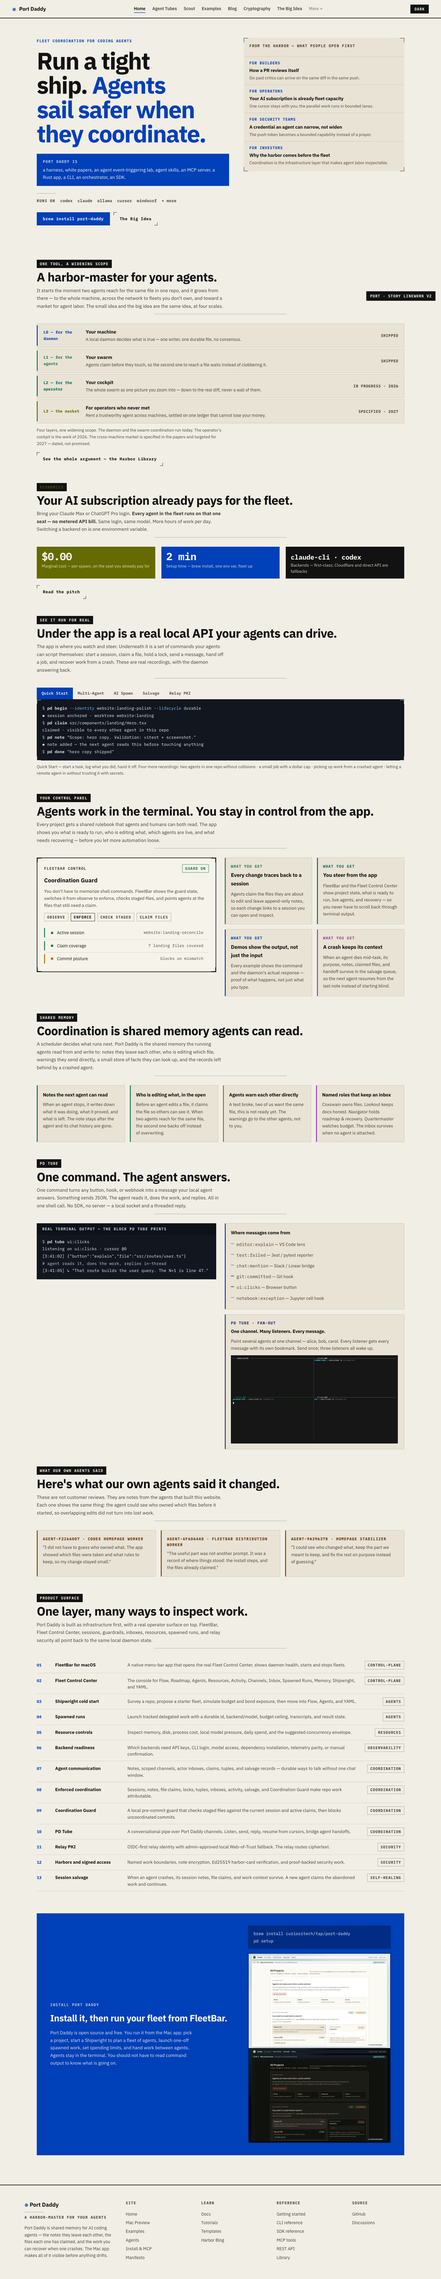
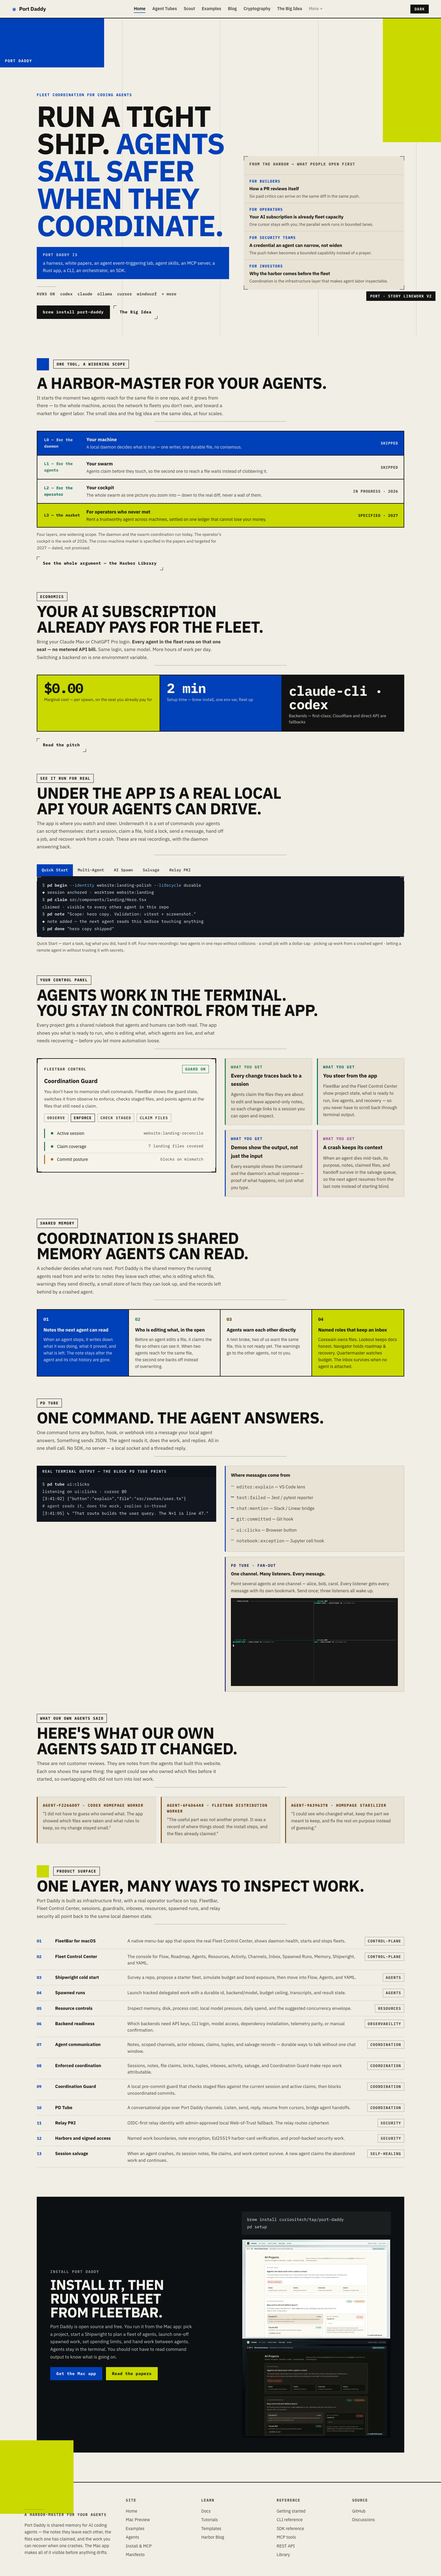
docs(design): home port — color splashes across the full story palette
Operator-calibrated after the v0-agentsd reference: keep the splashes,
drop the costume. Mixed-case display (no poster caps), corner slabs as
punctuation (cobalt wordmark block, teal bleed, violet mid-page), the
scope ladder painted fully in its layer hues (L0 cobalt / L1 sage /
L2 teal / L3 lime), one-filled-cell grid in teal + violet, lime/cobalt
stat strip, cobalt install band. Slab lime = --chart-yellow, ink text.

(guard bypassed once: cross-session claim tangle after daemon restart;
see coordination note in session e6ae3057)

diff --git a/docs/design/story-linework/ports/home.html b/docs/design/story-linework/ports/home.html
@@ -9,7 +9,7 @@
 <link rel="stylesheet" href="port.css">
 <style>
   /* page-specific */
-  .hero { display: grid; grid-template-columns: 1.2fr 1fr; gap: 48px; padding: 64px 0 56px; align-items: start; }
+  .hero { display: grid; grid-template-columns: 1.2fr 1fr; gap: 48px; padding: 150px 0 56px; align-items: start; }
   .hero h1 { font-size: var(--fs-hero); font-weight: 700; line-height: 1.02; letter-spacing: var(--tracking-display); max-width: 16ch; }
   .hero h1 .accent { color: var(--cobalt); }
   .hero .eyebrow { margin-bottom: 14px; }
@@ -65,6 +65,83 @@
   .demo-tab.on { background: var(--cobalt); color: var(--inverse) !important; box-shadow: none !important; }
   [data-theme="dark"] .demo-tab.on { color: #121212 !important; }
 </style>
+<style>
+  /* ═══ LEVEL 3 — blocks as page architecture (v0-agentsd reference) ═══ */
+  html, body { overflow-x: clip; }
+  :root { --lime: #cad900; } /* chart-yellow — slab/fill cut; ink text only, never small text */
+  section { position: relative; }
+
+  /* exposed column grid behind the hero */
+  .hero::before {
+    content: ""; position: absolute; inset: -64px -40px 0;
+    background-image: repeating-linear-gradient(to right, transparent 0 calc(50% - 1px), var(--hair) calc(50% - 1px) 50%);
+    pointer-events: none;
+  }
+  .hero > * { position: relative; }
+
+  /* edge-bleeding slabs */
+  .slab { position: absolute; pointer-events: none; }
+  .slab .slab-label {
+    position: absolute; left: 16px; bottom: 12px;
+    font-family: "IBM Plex Mono", monospace; font-size: 12px; font-weight: 700;
+    letter-spacing: 0.14em; text-transform: uppercase; color: var(--inverse);
+  }
+  [data-theme="dark"] .slab .slab-label { color: #121212; }
+
+  /* poster display */
+  .hero h1 { font-size: var(--fs-hero); line-height: 1.0; max-width: 15ch; }
+  
+
+  /* eyebrow: outlined chip (color spent on slabs instead) */
+  
+  .sect-head { padding-top: 60px; }
+  .sect-mark { display: inline-block; width: 40px; height: 40px; vertical-align: middle; margin-right: 14px; border: 2px solid var(--border-strong); }
+
+  /* stat strip — joined color-bar cells */
+  .stat-row { gap: 0 !important; border: 2px solid var(--border-strong); }
+  .stat + .stat { border-left: 2px solid var(--border-strong); }
+  .stat { padding: 20px 22px !important; }
+  .stat .n { font-size: 44px !important; }
+
+  /* one-filled-cell grids: outlined cells, number chips */
+  .l3-grid { display: grid; grid-template-columns: repeat(4, 1fr); gap: 0; border: 2px solid var(--border-strong); }
+  .l3-cell { padding: 18px 20px 20px; border-right: 2px solid var(--border-strong); }
+  .l3-cell:last-child { border-right: none; }
+  .l3-cell .n { font-family: "IBM Plex Mono", monospace; font-size: 14px; font-weight: 700; margin-bottom: 10px; display: inline-block; }
+  .l3-cell .t { font-size: 15.5px; font-weight: 700; letter-spacing: var(--tracking-h3); }
+  .l3-cell p { font-size: 14px; line-height: 1.58; color: var(--text-secondary); margin-top: 8px; }
+  .l3-cell.fill-cobalt { background: var(--teal); }
+  .l3-cell.fill-gold { background: var(--violet); color: var(--inverse) !important; }
+  [data-theme="dark"] .l3-cell.fill-gold { color: #121212 !important; }
+  .l3-cell.fill-cobalt { color: var(--inverse); }
+  .l3-cell.fill-cobalt p, .l3-cell.fill-gold p { color: inherit; opacity: 0.92; }
+  [data-theme="dark"] .l3-cell.fill-cobalt { color: #121212; }
+
+  /* ladder as legend-semantic diagram: L0 solid cobalt, L3 solid gold */
+  .ladder { border: 2px solid var(--border-strong); }
+  .rung { border: none !important; margin-bottom: 0 !important; background: var(--surface-base) !important; }
+  .rung + .rung { border-top: 2px solid var(--border-strong) !important; }
+  .rung::before { display: none; }
+  .rung.fill-cobalt { background: var(--cobalt) !important; color: var(--inverse); }
+  .rung.fill-health { background: var(--health) !important; color: var(--inverse); }
+  .rung.fill-teal   { background: var(--teal) !important; color: var(--inverse); }
+  .rung.fill-gold { background: var(--lime) !important; color: #121212 !important; }
+  [data-theme="dark"] .rung.fill-cobalt, [data-theme="dark"] .rung.fill-health, [data-theme="dark"] .rung.fill-teal { color: #121212; }
+  .rung.fill-health .l-id, .rung.fill-teal .l-id, .rung.fill-health .l-tag, .rung.fill-teal .l-tag { color: inherit !important; opacity: 0.9; }
+  .rung.fill-health .l-body, .rung.fill-teal .l-body { color: inherit !important; opacity: 0.92; }
+  .rung.fill-cobalt .l-id, .rung.fill-gold .l-id, .rung.fill-cobalt .l-tag, .rung.fill-gold .l-tag { color: inherit !important; opacity: 0.9; }
+  .rung.fill-cobalt .l-body, .rung.fill-gold .l-body { color: inherit !important; opacity: 0.92; }
+
+  /* black band */
+  .ink-band { background: var(--cobalt); color: var(--inverse); padding: 48px 44px; margin-top: 96px; display: grid; grid-template-columns: 1.2fr 1fr; gap: 40px; align-items: center; }
+  .ink-band h2 { font-size: clamp(28px, 3vw, 38px); font-weight: 700; letter-spacing: var(--tracking-h2); line-height: 1.05; }
+  .ink-band p { font-size: 15px; line-height: 1.65; opacity: 0.85; margin-top: 12px; max-width: 52ch; }
+  .ink-band .zb-eyebrow { font-family: "IBM Plex Mono", monospace; font-size: 12px; font-weight: 700; text-transform: uppercase; letter-spacing: 0.14em; opacity: 0.75; margin-bottom: 10px; }
+  [data-theme="dark"] .ink-band { color: #121212; }
+  [data-theme="dark"] .ink-band .zb-code { color: #10131a; background: rgba(0,0,0,0.16) !important; }
+  .btn-gold { font-family: "IBM Plex Mono", monospace; font-size: 13.5px; font-weight: 700; letter-spacing: 0.04em; padding: 11px 20px; background: var(--lime); color: #121212; cursor: default; display: inline-block; }
+  @media (max-width: 1080px) { .l3-grid { grid-template-columns: 1fr 1fr; } .l3-cell:nth-child(2) { border-right: none; } .ink-band { grid-template-columns: 1fr; } .slab { display: none; } }
+</style>
 </head>
 <body>
 <header class="site-header">
@@ -80,6 +157,8 @@
 
   <!-- HERO -->
   <section class="hero">
+    <div class="slab" style="top:-64px; left:calc(50% - 50vw); width: calc(50vw - 720px + 340px); min-width: 220px; height: 128px; background: var(--cobalt);"><span class="slab-label">Port Daddy</span></div>
+    <div class="slab" style="top:-16px; right:calc(50% - 50vw); width: calc(50vw - 720px + 190px); min-width: 110px; height: 260px; background: var(--teal);"></div>
     <div>
       <div class="eyebrow">Fleet coordination for coding agents</div>
       <h1>Run a tight ship. <span class="accent">Agents sail safer when they coordinate.</span></h1>
@@ -93,11 +172,11 @@
         <span class="r-item">cursor</span><span class="r-item">windsurf</span><span class="r-item">+ more</span>
       </div>
       <div style="display:flex; gap:12px; margin-top:26px;">
-        <a class="cta" href="#install">brew install port-daddy</a>
+        <a class="cta" href="#install" style="background: var(--border-strong); color: var(--surface-base);">brew install port-daddy</a>
         <a class="cta ghost" href="#"><i></i><i></i>The Big Idea</a>
       </div>
     </div>
-    <div class="harbor-panel lw-brackets"><i class="lw"></i><i class="lw"></i><i class="lw"></i><i class="lw"></i>
+    <div class="harbor-panel lw-brackets" style="margin-top: 110px;"><i class="lw"></i><i class="lw"></i><i class="lw"></i><i class="lw"></i>
       <div class="hp-head">
         <span class="eyebrow" style="color: var(--text-muted)">From the harbor — what people open first</span>
       </div>
@@ -111,15 +190,15 @@
   <!-- SCOPE LADDER -->
   <section>
     <div class="sect-head">
-      <div class="eyebrow">One tool, a widening scope</div>
-      <h2>A harbor-master for your agents.</h2>
+      <span class="sect-mark" style="background: var(--cobalt); border:none;"></span><span class="eyebrow">One tool, a widening scope</span>
+      <h2 style="margin-top:14px;">A harbor-master for your agents.</h2>
       <p class="sect-desc">It starts the moment two agents reach for the same file in one repo, and it grows from there — to the whole machine, across the network to fleets you don't own, and toward a market for agent labor. The small idea and the big idea are the same idea, at four scales.</p>
     </div>
     <div class="ladder">
-      <div class="rung" style="--layer: var(--cobalt)"><span class="l-id">L0 — for the daemon</span><div><div class="l-name">Your machine</div><div class="l-body">A local daemon decides what is true — one writer, one durable file, no consensus.</div></div><span class="l-tag">Shipped</span></div>
-      <div class="rung" style="--layer: var(--health)"><span class="l-id">L1 — for the agents</span><div><div class="l-name">Your swarm</div><div class="l-body">Agents claim before they touch, so the second one to reach a file waits instead of clobbering it.</div></div><span class="l-tag">Shipped</span></div>
-      <div class="rung" style="--layer: var(--teal)"><span class="l-id">L2 — for the operator</span><div><div class="l-name">Your cockpit</div><div class="l-body">The whole swarm as one picture you zoom into — down to the real diff, never a wall of them.</div></div><span class="l-tag">In progress · 2026</span></div>
-      <div class="rung" style="--layer: var(--gold)"><span class="l-id">L3 — the market</span><div><div class="l-name">For operators who never met</div><div class="l-body">Rent a trustworthy agent across machines, settled on one ledger that cannot lose your money.</div></div><span class="l-tag">Specified · 2027</span></div>
+      <div class="rung fill-cobalt" style="--layer: var(--cobalt)"><span class="l-id">L0 — for the daemon</span><div><div class="l-name">Your machine</div><div class="l-body">A local daemon decides what is true — one writer, one durable file, no consensus.</div></div><span class="l-tag">Shipped</span></div>
+      <div class="rung fill-health" style="--layer: var(--health)"><span class="l-id">L1 — for the agents</span><div><div class="l-name">Your swarm</div><div class="l-body">Agents claim before they touch, so the second one to reach a file waits instead of clobbering it.</div></div><span class="l-tag">Shipped</span></div>
+      <div class="rung fill-teal" style="--layer: var(--teal)"><span class="l-id">L2 — for the operator</span><div><div class="l-name">Your cockpit</div><div class="l-body">The whole swarm as one picture you zoom into — down to the real diff, never a wall of them.</div></div><span class="l-tag">In progress · 2026</span></div>
+      <div class="rung fill-gold" style="--layer: var(--gold)"><span class="l-id">L3 — the market</span><div><div class="l-name">For operators who never met</div><div class="l-body">Rent a trustworthy agent across machines, settled on one ledger that cannot lose your money.</div></div><span class="l-tag">Specified · 2027</span></div>
     </div>
     <p style="font-size:13.5px; color: var(--text-muted); margin-top:12px; max-width:76ch;">Four layers, one widening scope. The daemon and the swarm coordination run today. The operator's cockpit is the work of 2026. The cross-machine market is specified in the papers and targeted for 2027 — dated, not promised.</p>
     <a class="cta ghost" style="margin-top:18px;" href="library.html"><i></i><i></i>See the whole argument — the Harbor Library</a>
@@ -128,12 +207,12 @@
   <!-- CLI BACKEND VALUE PROP -->
   <section>
     <div class="sect-head">
-      <div class="eyebrow" style="color: var(--gold-on-tint)">Economics</div>
+      <span class="sect-mark" style="background: var(--lime); border:none;"></span><span class="eyebrow" style="background: var(--border-strong); color: var(--surface-base);">Economics</span>
       <h2>Your AI subscription already pays for the fleet.</h2>
       <p class="sect-desc">Bring your Claude Max or ChatGPT Pro login. <strong>Every agent in the fleet runs on that one seat — no metered API bill.</strong> Same login, same model. More hours of work per day. Switching a backend on is one environment variable.</p>
     </div>
     <div class="stat-row">
-      <div class="stat" style="background: var(--gold)"><div class="n">$0.00</div><div class="l">Marginal cost — per spawn, on the seat you already pay for</div></div>
+      <div class="stat" style="background: var(--lime); color:#121212;"><div class="n">$0.00</div><div class="l">Marginal cost — per spawn, on the seat you already pay for</div></div>
       <div class="stat" style="background: var(--cobalt)"><div class="n">2 min</div><div class="l">Setup time — brew install, one env var, fleet up</div></div>
       <div class="stat" style="background: var(--border-strong)"><div class="n" style="font-size:22px; padding-top:9px;">claude-cli · codex</div><div class="l">Backends — first-class; Cloudflare and direct API are fallbacks</div></div>
     </div>
@@ -200,11 +279,11 @@ claimed · visible to every other agent in this repo
       <h2>Coordination is shared memory agents can read.</h2>
       <p class="sect-desc">A scheduler decides what runs next. Port Daddy is the shared memory the running agents read from and write to: notes they leave each other, who is editing which file, warnings they send directly, a small store of facts they can look up, and the records left behind by a crashed agent.</p>
     </div>
-    <div class="cards-4">
-      <div class="stripe-card" style="--stripe: var(--teal)"><div class="sc-title" style="font-size:15.5px;">Notes the next agent can read</div><p>When an agent stops, it writes down what it was doing, what it proved, and what is left. The note stays after the agent and its chat history are gone.</p></div>
-      <div class="stripe-card" style="--stripe: var(--health)"><div class="sc-title" style="font-size:15.5px;">Who is editing what, in the open</div><p>Before an agent edits a file, it claims the file so others can see it. When two agents reach for the same file, the second one backs off instead of overwriting.</p></div>
-      <div class="stripe-card" style="--stripe: var(--amber)"><div class="sc-title" style="font-size:15.5px;">Agents warn each other directly</div><p>A test broke, two of us want the same file, this is not ready yet. The warnings go to the other agents, not to you.</p></div>
-      <div class="stripe-card" style="--stripe: var(--violet)"><div class="sc-title" style="font-size:15.5px;">Named roles that keep an inbox</div><p>Coxswain owns files. Lookout keeps docs honest. Navigator holds roadmap &amp; recovery. Quartermaster watches budget. The inbox survives when no agent is attached.</p></div>
+    <div class="l3-grid">
+      <div class="l3-cell fill-cobalt"><span class="n">01</span><div class="t">Notes the next agent can read</div><p>When an agent stops, it writes down what it was doing, what it proved, and what is left. The note stays after the agent and its chat history are gone.</p></div>
+      <div class="l3-cell"><span class="n" style="color: var(--health)">02</span><div class="t">Who is editing what, in the open</div><p>Before an agent edits a file, it claims the file so others can see it. When two agents reach for the same file, the second one backs off instead of overwriting.</p></div>
+      <div class="l3-cell"><span class="n" style="color: var(--amber-on-tint)">03</span><div class="t">Agents warn each other directly</div><p>A test broke, two of us want the same file, this is not ready yet. The warnings go to the other agents, not to you.</p></div>
+      <div class="l3-cell fill-gold"><span class="n">04</span><div class="t">Named roles that keep an inbox</div><p>Coxswain owns files. Lookout keeps docs honest. Navigator holds roadmap &amp; recovery. Quartermaster watches budget. The inbox survives when no agent is attached.</p></div>
     </div>
   </section>
 
@@ -256,7 +335,7 @@ listening on ui:clicks · cursor @0
   <!-- FEATURES INDEX -->
   <section>
     <div class="sect-head">
-      <div class="eyebrow">Product surface</div>
+      <span class="sect-mark" style="background: var(--teal); border:none;"></span><span class="eyebrow">Product surface</span>
       <h2>One layer, many ways to inspect work.</h2>
       <p class="sect-desc">Port Daddy is built as infrastructure first, with a real operator surface on top. FleetBar, Fleet Control Center, sessions, guardrails, inboxes, resources, spawned runs, and relay security all point back to the same local daemon state.</p>
     </div>
@@ -277,16 +356,20 @@ listening on ui:clicks · cursor @0
     </div>
   </section>
 
-  <!-- INSTALL ZONE — the page's one color zone -->
+  <!-- INSTALL — black band (Level 3) -->
   <section id="install">
-    <div class="zone-banner">
+    <div class="ink-band">
       <div>
         <div class="zb-eyebrow">Install Port Daddy</div>
         <h2>Install it, then run your fleet from FleetBar.</h2>
         <p>Port Daddy is open source and free. You run it from the Mac app: pick a project, start a Shipwright to plan a fleet of agents, launch one-off spawned work, set spending limits, and hand work between agents. Agents stay in the terminal. You should not have to read command output to know what is going on.</p>
+        <div style="display:flex; gap:12px; margin-top:20px;">
+          <span class="cta" style="background: var(--border-strong); color: var(--surface-base);">Get the Mac app</span>
+          <span class="btn-gold">Read the papers</span>
+        </div>
       </div>
       <div>
-        <div class="zb-code">brew install curiositech/tap/port-daddy<br>pd setup</div>
+        <div class="zb-code" style="background: rgba(255,255,255,0.06);">brew install curiositech/tap/port-daddy<br>pd setup</div>
         <figure class="themed-img" style="margin-top:14px; border: 2px solid rgba(0,0,0,0.35);">
           <img class="light-only" src="../../../../website-v2/public/img/app-screens/fleetbar-native-shell-light.webp" alt="FleetBar native shell — daemon health, agents, and project readiness in the macOS menu bar." style="display:block; width:100%; height:auto;">
           <img class="dark-only" src="../../../../website-v2/public/img/app-screens/fleetbar-native-shell-dark.webp" alt="FleetBar native shell, dark." style="display:block; width:100%; height:auto;">
@@ -294,6 +377,8 @@ listening on ui:clicks · cursor @0
       </div>
     </div>
   </section>
+
+  <div style="position:relative; height:0;"><div class="slab" style="top:-40px; left:calc(50% - 50vw); width: calc(50vw - 720px + 240px); min-width: 160px; height: 240px; background: var(--violet);"></div></div>
 
 </main>
 

diff --git a/docs/design/story-linework/proposal.html b/docs/design/story-linework/proposal.html
@@ -306,7 +306,7 @@
     <div class="sect-head">
       <div class="eyebrow">§ 04 · The assignment</div>
       <h2>Five straight ports of the live pages</h2>
-      <p class="sect-desc">Faithful to the real routes — actual headlines, actual copy, actual data (18 blog posts, 13 examples, 7 papers, 13 product features), actual generated art from <span class="mono-sm">public/img</span> — re-drawn in linework + palette v2, set in Plex (Option A). Blocking is a dial, not a constant. The FleetBar rule ("one zone per view") was written for a 380pt popover; full pages earn more. <b>Level 1</b> — hairline + stripe only (library, examples, blog, cli-backend). <b>Level 2</b> — Vignelli blocking: filled ink label-blocks, filled stat tiles, a solid definition block, one zone per section (home runs at this level — compare it against the others and pick the site-wide dial). Everywhere: stripes carry state or layer, brackets frame live panels, hard borders stay on primary surfaces. Toggle dark mode on each.</p>
+      <p class="sect-desc">Faithful to the real routes — actual headlines, actual copy, actual data (18 blog posts, 13 examples, 7 papers, 13 product features), actual generated art from <span class="mono-sm">public/img</span> — re-drawn in linework + palette v2, set in Plex (Option A). <b>Level 3</b> — blocks as page architecture, calibrated against the v0-agentsd reference: edge-bleeding cobalt/chartreuse slabs, exposed column grid, poster-caps display, the one-filled-cell rule, legend-semantic diagram fills, black bands (home runs at this level; slab/fill chartreuse is <span class="mono-sm">--chart-yellow #cad900</span> with ink text — never small text). Blocking is a dial, not a constant. The FleetBar rule ("one zone per view") was written for a 380pt popover; full pages earn more. <b>Level 1</b> — hairline + stripe only (library, examples, blog, cli-backend). <b>Level 2</b> — Vignelli blocking: filled ink label-blocks, filled stat tiles, a solid definition block, one zone per section (retired — home has moved up). Everywhere: stripes carry state or layer, brackets frame live panels, hard borders stay on primary surfaces. Toggle dark mode on each.</p>
     </div>
     <div class="port-links">
       <a class="port-link" href="ports/home.html" style="--pl: var(--cobalt)"><span class="pl-route">/</span><span class="pl-name">Home</span><span class="pl-note">Hero, scope ladder (layer stripes), guard panel, 13-feature index, install zone.</span></a>
